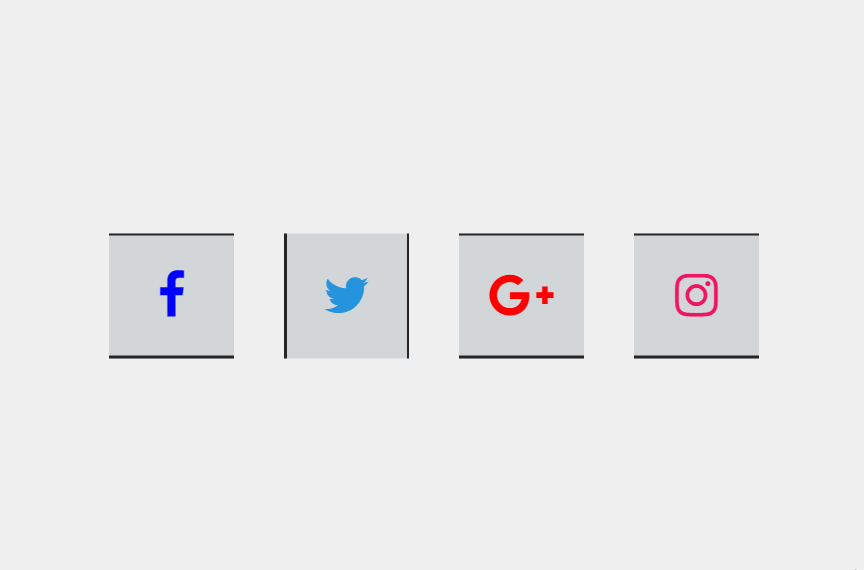
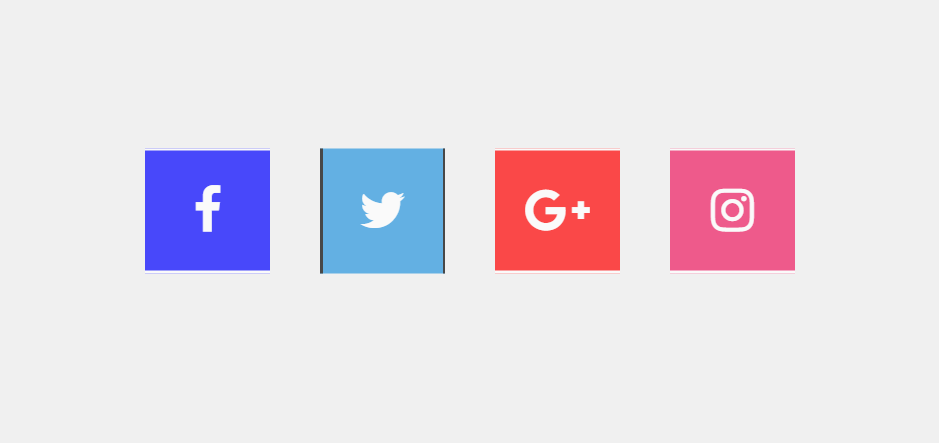
update

Changed region(s): [[0.125, 0.3228, 0.9062, 0.6456]]

diff --git a/style.css b/style.css
@@ -23,7 +23,7 @@ ul li a{
     line-height: 50px;
     font-size: 20px;
     text-align: center;
-    background-color: rgb(211, 214, 216);
+    color: white;
     text-decoration: none;
     margin: 0 10px;
     transition: .5s;
@@ -36,7 +36,7 @@ ul li a span:nth-child(1),
 ul li a span:nth-child(3){
     width: 100%;
     height: 1px;
-    background: #262626;
+    background: white;
 }
 ul li a span:nth-child(1){
     top: 0;
@@ -63,7 +63,7 @@ ul li a span:nth-child(2),
 ul li a span:nth-child(4){
     width: 1px;
     height: 100%;
-    background: #262626;
+    background: black;
 }
 ul li a span:nth-child(2){
     top: 0;
@@ -88,14 +88,18 @@ ul li a:hover span:nth-child(4){
     transition: transform .5s;
 }
 .facebook{
-    color: blue;
+    background-color: blue;
+    opacity: 0.7;
 }
 .twitter{
-    color: rgb(38, 148, 221);
+    background-color: rgb(38, 148, 221);
+    opacity: 0.7;
 }
 .googleplus{
-    color: red;
+    background-color: red;
+    opacity: 0.7;
 }
 .instagram{
-    color: rgb(241, 20, 94);
+    background-color: rgba(238, 20, 92, 0.973);
+    opacity: 0.7;
 }
